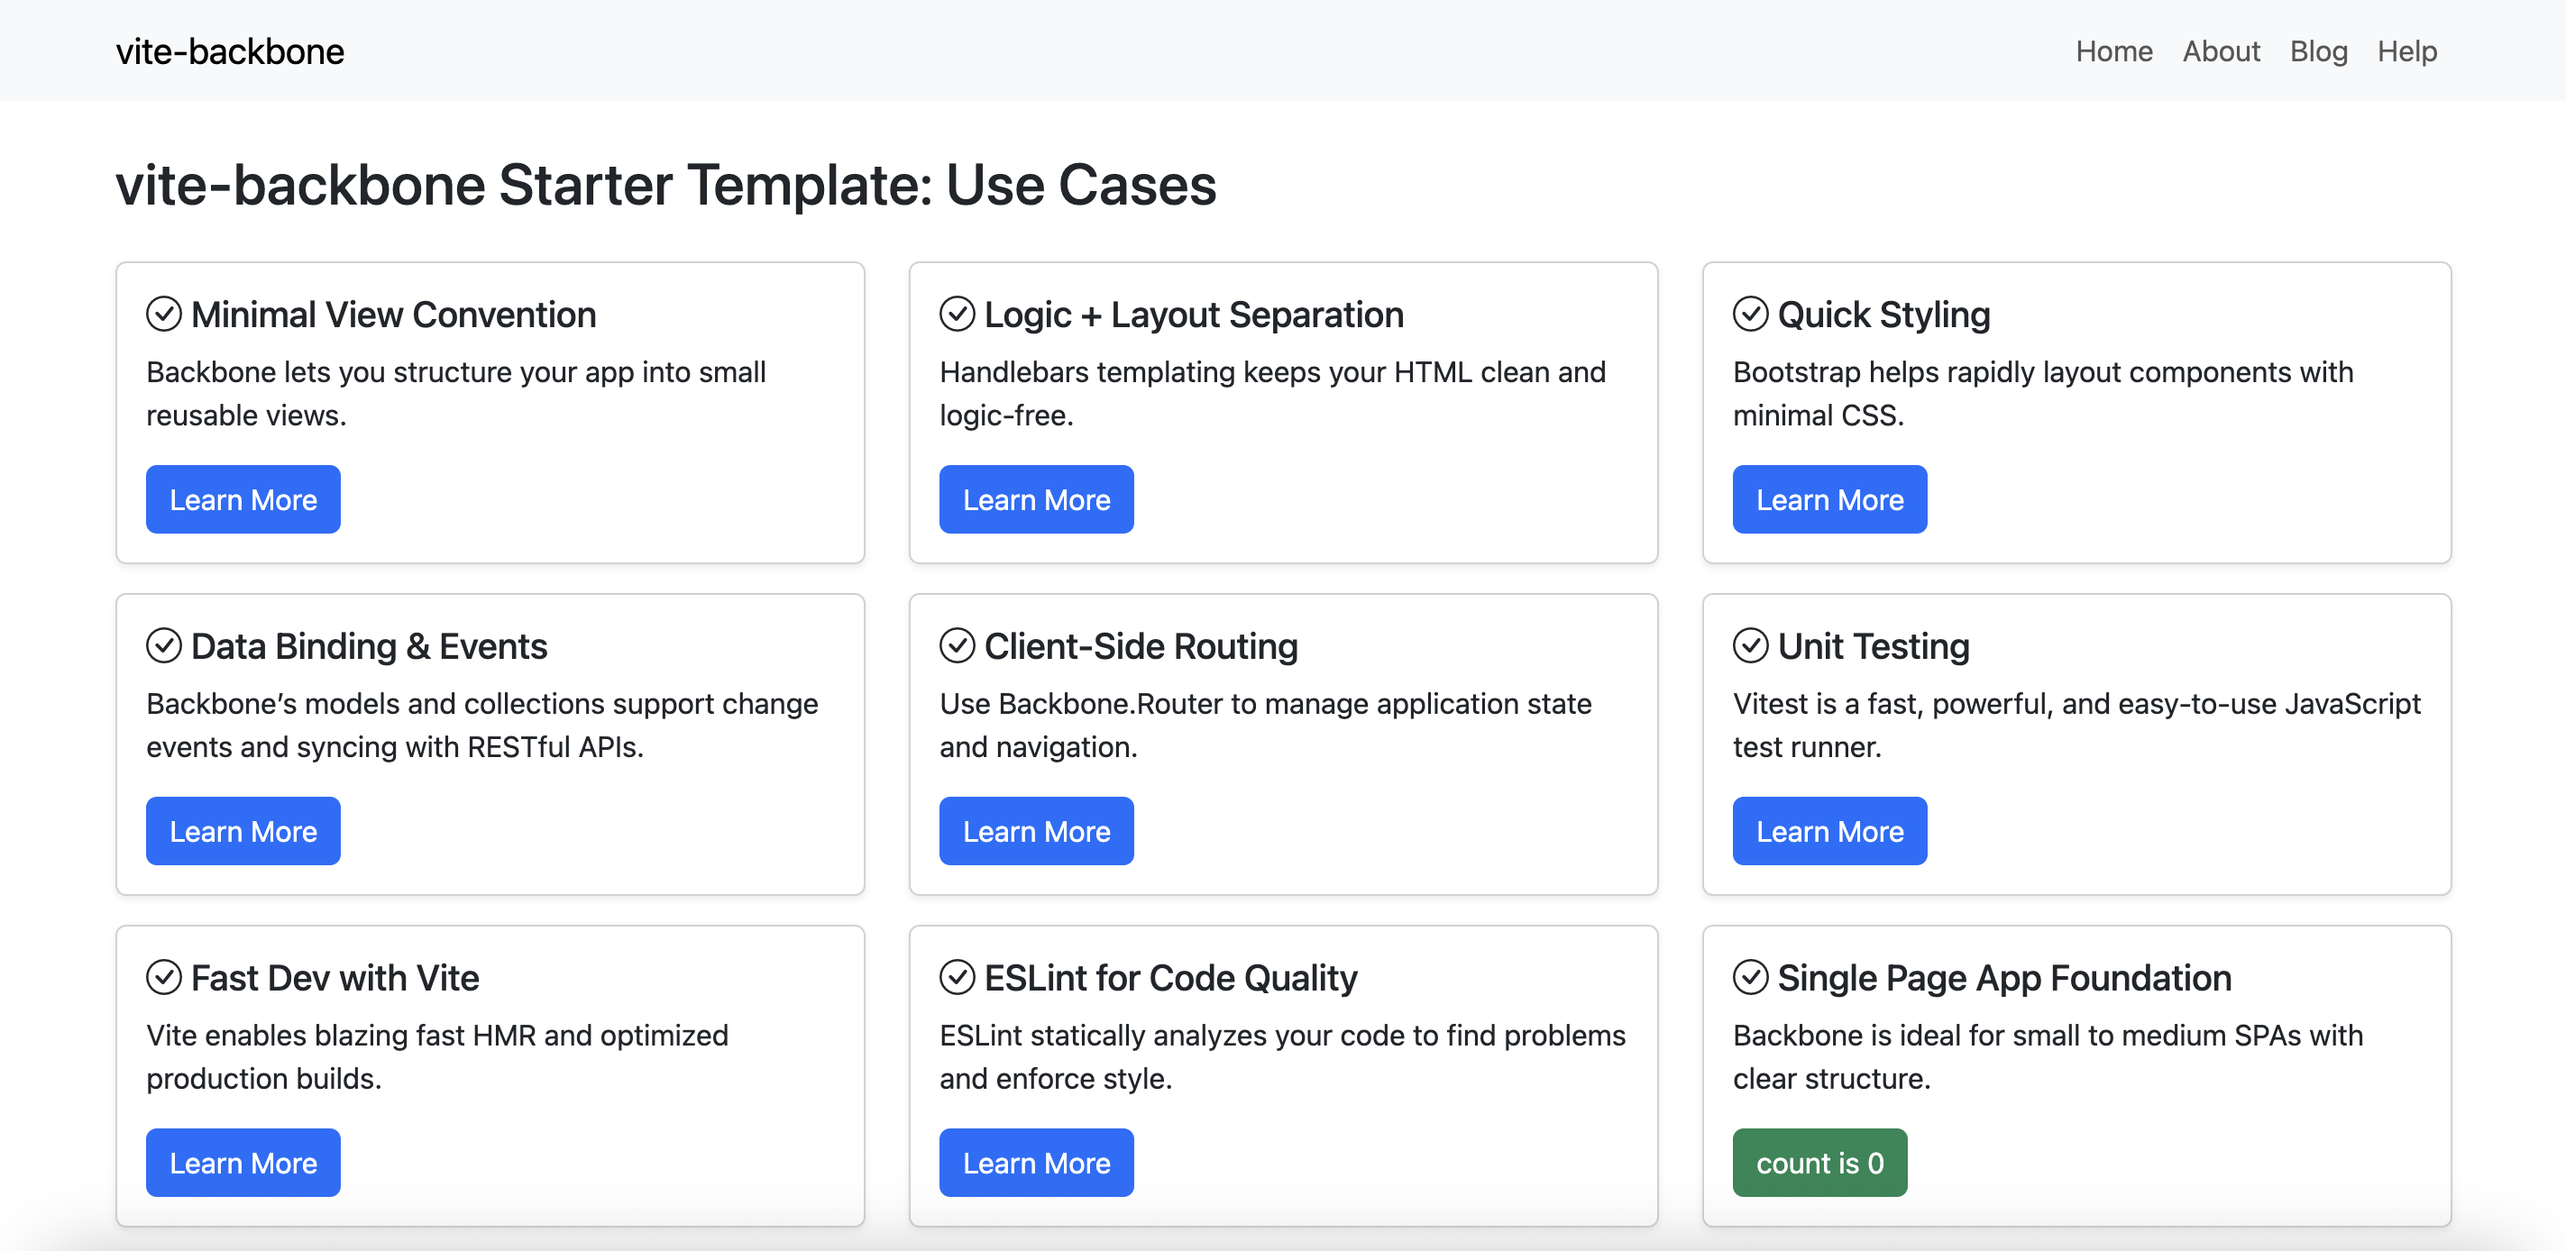
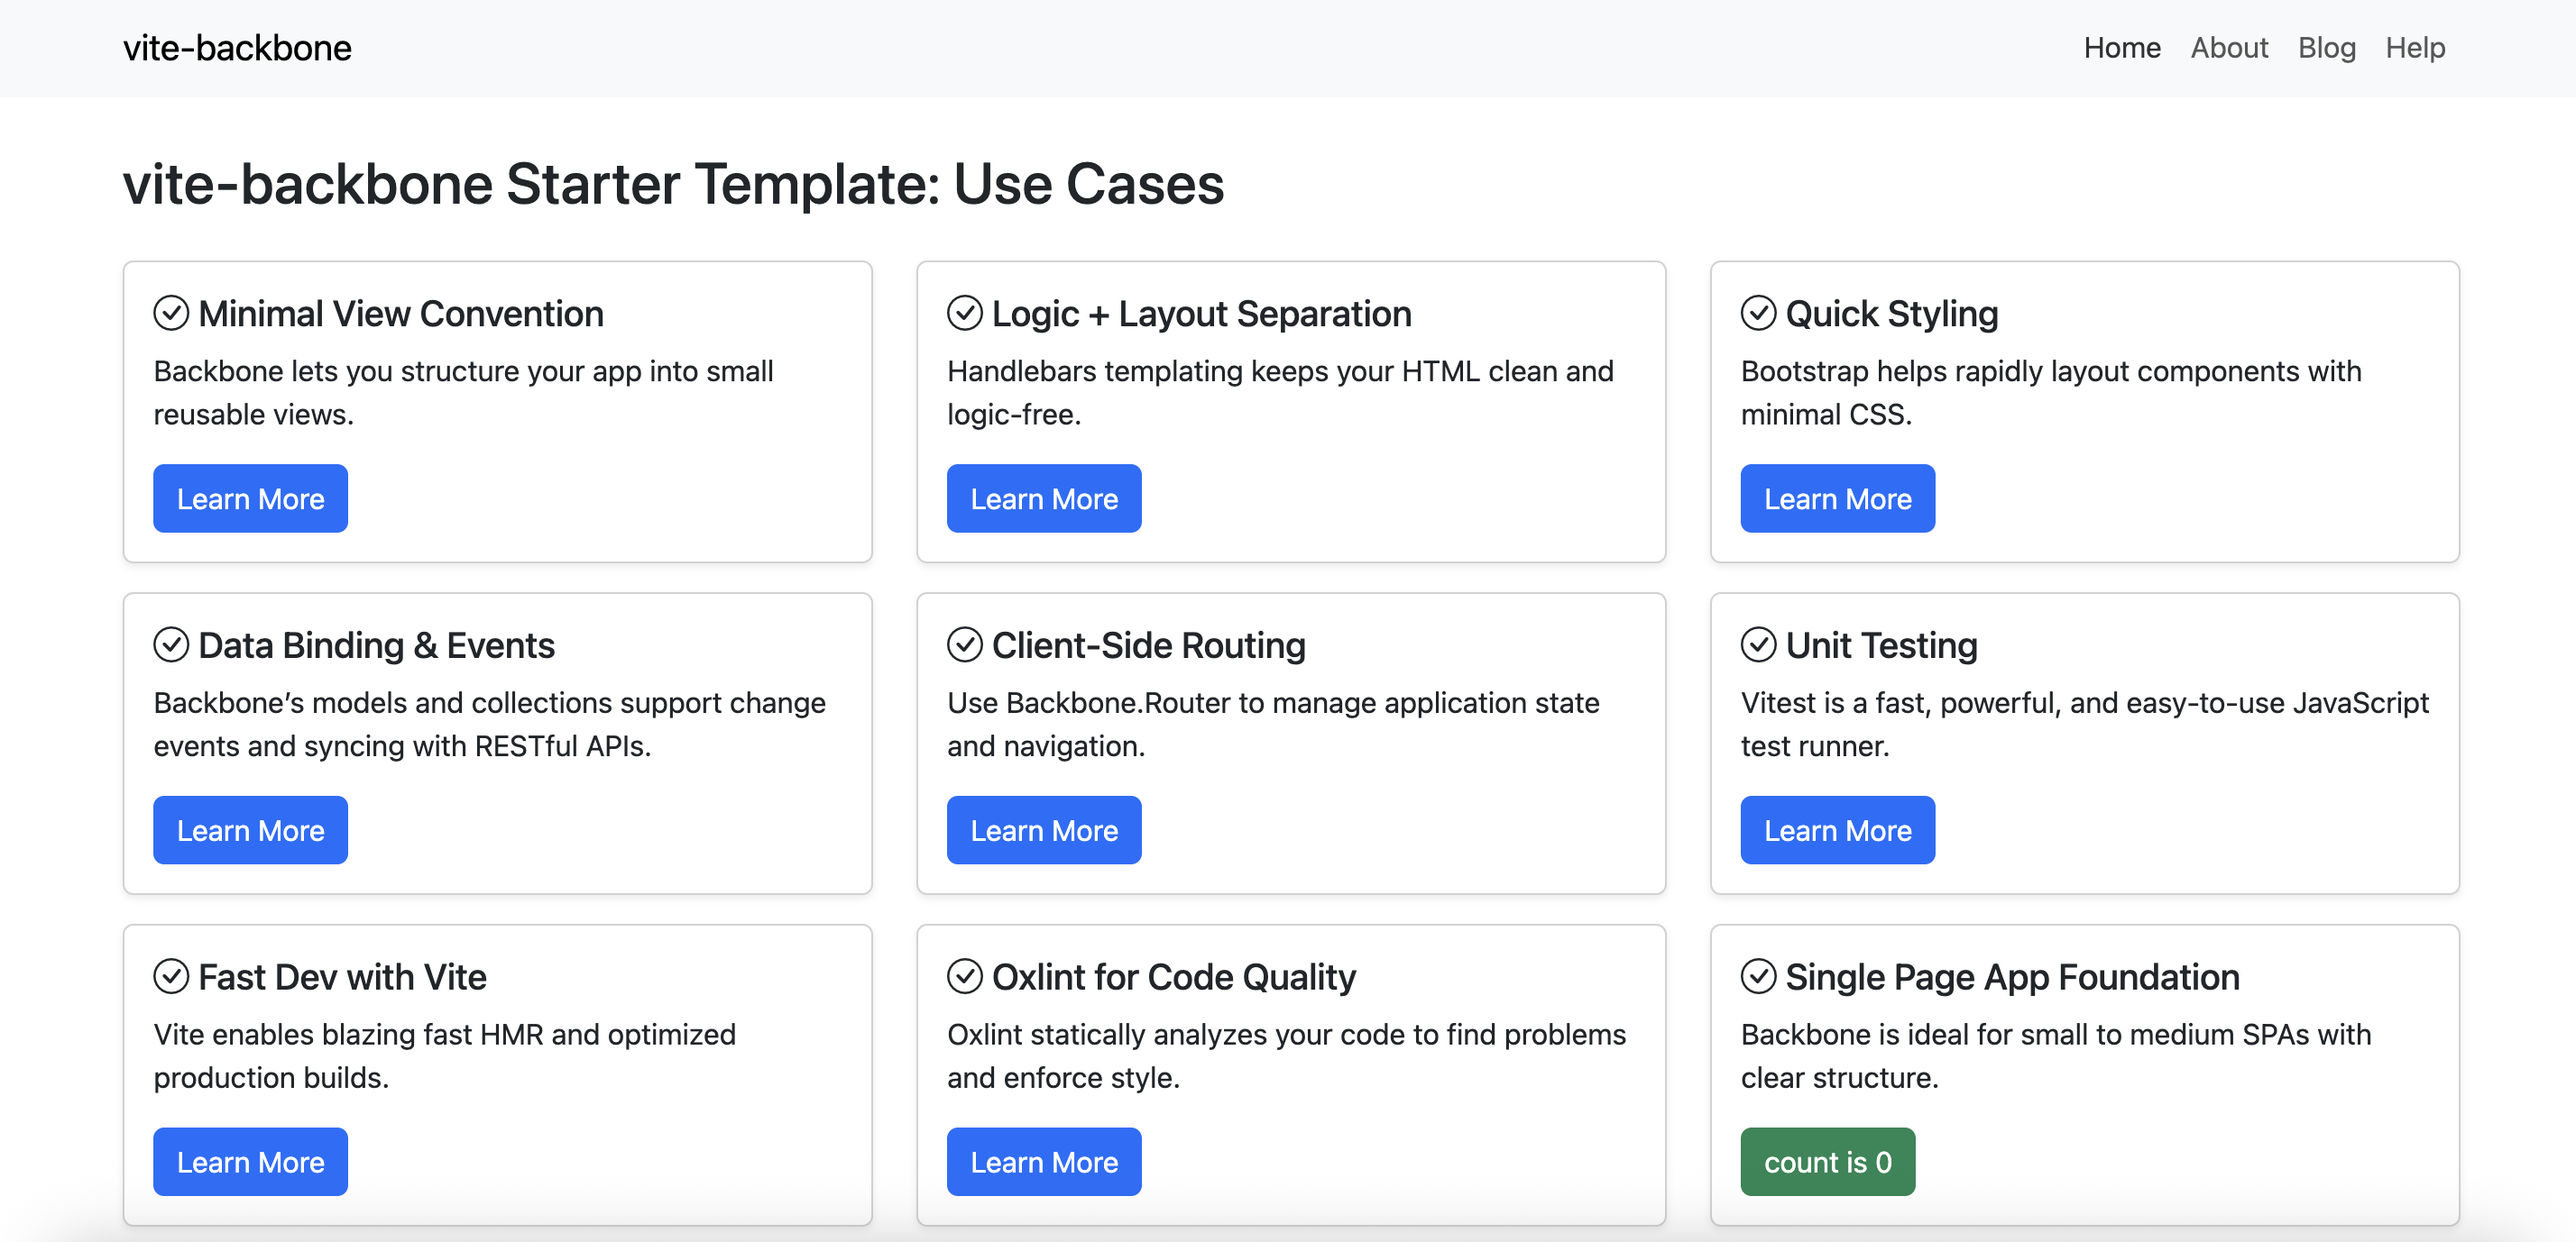
use cases: replaced ESLint for Oxlint

diff --git a/src/data/usecases.js b/src/data/usecases.js
@@ -45,9 +45,9 @@ export const usecases = [
   },
   {
     id: "dd6eaa1e-f0dc-4f9c-87cc-3f9423a901e6",
-    title: "ESLint for Code Quality",
-    description: "ESLint statically analyzes your code to find problems and enforce style.",
-    link: "https://eslint.org/",
+    title: "Oxlint for Code Quality",
+    description: "Oxlint statically analyzes your code to find problems and enforce style.",
+    link: "https://oxc.rs/docs/guide/usage/linter.html",
   },
   {
     id: "b975384c-6294-4d51-a87d-b5092078ad2f",
